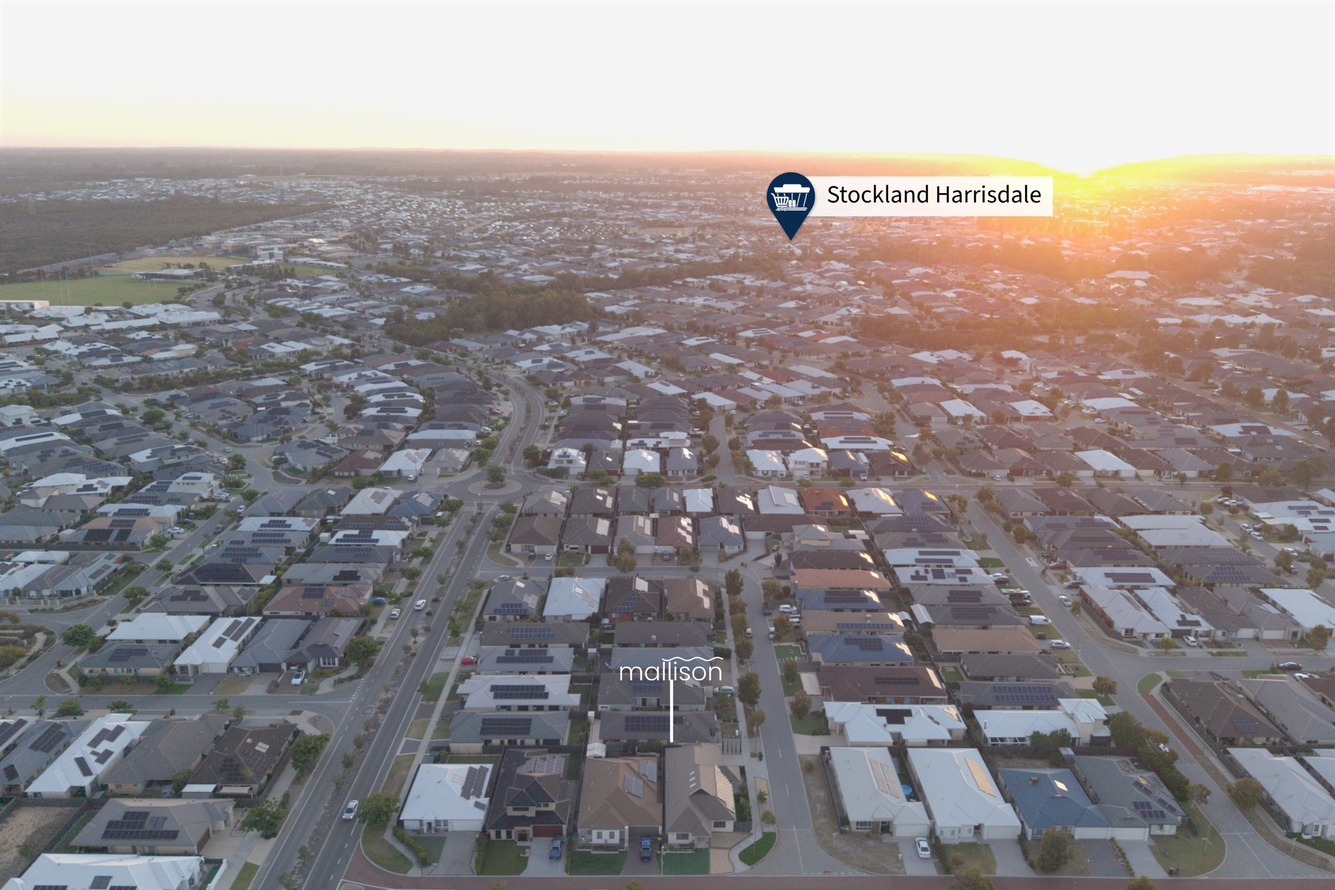
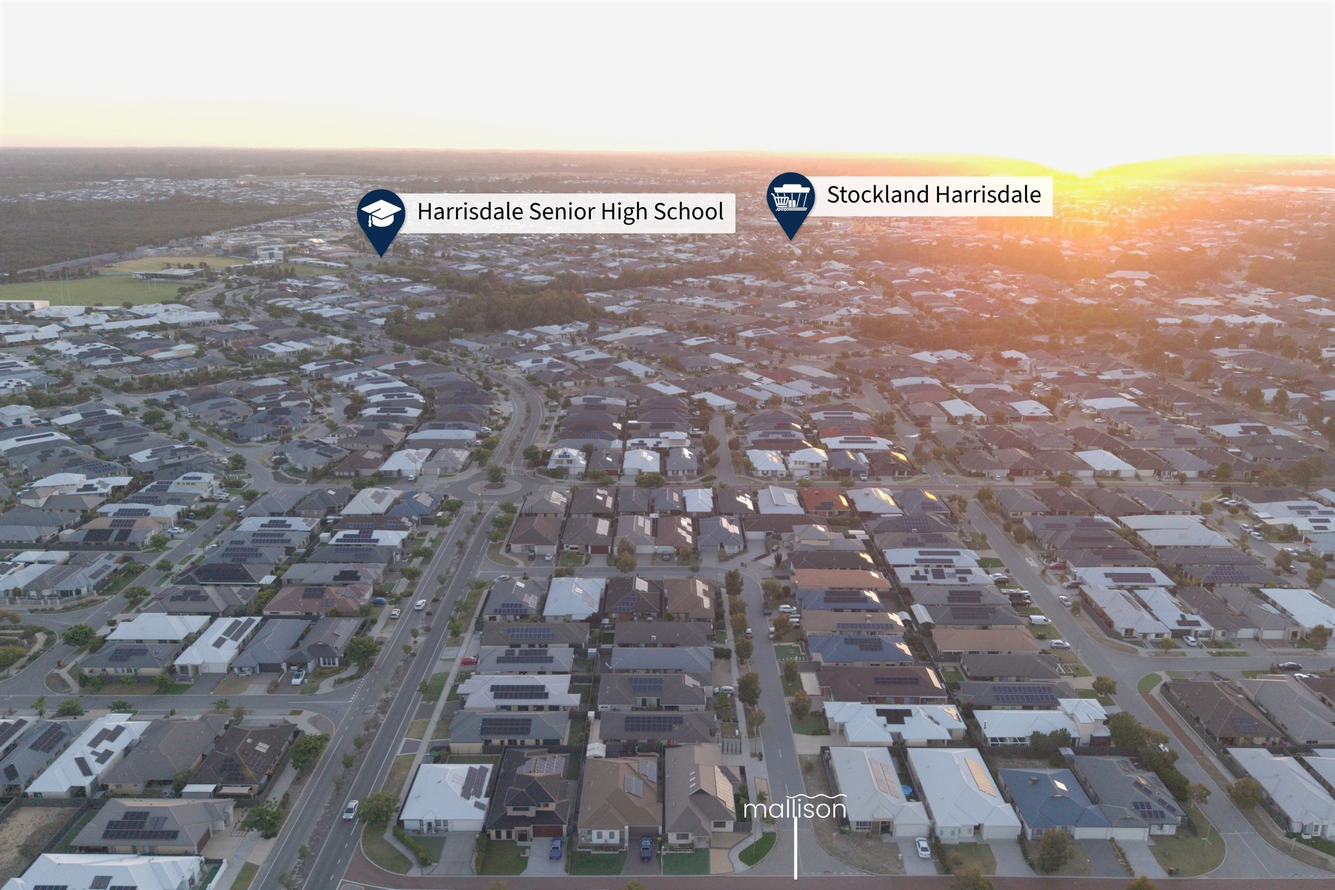
15 Glenora Wy: agent's 6 pins (N Harrisdale PS, Harrisdale SHS, Stockland Harrisdale, Carey, Cockburn Central, Armadale Hospital)
Claude-Session: https://claude.ai/code/session_01A5qGg2LnJXxgSHoMQFvEEG

Changed region(s): [[0.25, 0.2188, 0.5625, 0.2812], [0.5625, 0.875, 0.625, 0.9375], [0.4688, 0.7188, 0.5312, 0.7812]]

diff --git a/aerials/26-nov-2026/index.html b/aerials/26-nov-2026/index.html
@@ -5,4 +5,4 @@ body{margin:0;background:var(--bg);color:var(--fg);font:15px/1.45 system-ui,-app
 header,section{max-width:1400px;margin:auto;padding:18px 16px}h1{font-size:20px;margin:0}h2{font-size:17px;margin:0}header p,section p{color:var(--mut);margin:4px 0 0}
 .ed{margin-left:10px;color:var(--acc);font-weight:600;text-decoration:none}a{color:var(--acc)}
 .chk{margin-top:10px}.chk summary{cursor:pointer;color:var(--mut);font-weight:600}.chk iframe{width:100%;height:420px;border:0;border-radius:6px;margin-top:6px;background:#111}.g{display:grid;grid-template-columns:repeat(auto-fill,minmax(280px,1fr));gap:8px;margin-top:10px}.g img{width:100%;display:block;border-radius:4px}</style></head>
-<body><header><h1>Drone edits — Thu 26 Nov 2026</h1><p>Tap a photo for full size. <b>Edit</b> opens the job in the <a href="/pins/">editor</a> with all its pins and settings.</p></header><section><h2>SEND TO EDITOR — twilight drone (flown into the sunset) — 15 Glenora Wy, Harrisdale WA 6112</h2><p>Oshi Thilakarathna · Mallison Real Estate · 10 photos (top-downs first) <a class="ed" href="/pins/?open=26-nov-2026/15_glenora_wy">Edit</a><a class="ed" href="/lots/?img=/aerials/26-nov-2026/15_glenora_wy/src/dji_fly_20261126_185842_0003_1795690967775_photo_r180.jpg&street=Glenora%20Way" target="_blank">Lots</a><a class="ed" href="15_glenora_wy/check.html" target="_blank">Check map</a></p><div class="g"><a href="15_glenora_wy/dji_fly_20261126_185842_0003_1795690967775_photo_r180.jpg?v=1795707427" target="_blank"><img loading="lazy" src="15_glenora_wy/t/dji_fly_20261126_185842_0003_1795690967775_photo_r180.jpg?v=1795707427" alt=""></a><a href="15_glenora_wy/dji_fly_20261126_185848_0004_1795690966839_photo.jpg?v=1795707427" target="_blank"><img loading="lazy" src="15_glenora_wy/t/dji_fly_20261126_185848_0004_1795690966839_photo.jpg?v=1795707427" alt=""></a><a href="15_glenora_wy/dji_fly_20261126_185938_0005_1795690965902_photo.jpg?v=1795707427" target="_blank"><img loading="lazy" src="15_glenora_wy/t/dji_fly_20261126_185938_0005_1795690965902_photo.jpg?v=1795707427" alt=""></a><a href="15_glenora_wy/dji_fly_20261126_185956_0006_1795690965016_photo.jpg?v=1795707427" target="_blank"><img loading="lazy" src="15_glenora_wy/t/dji_fly_20261126_185956_0006_1795690965016_photo.jpg?v=1795707427" alt=""></a><a href="15_glenora_wy/dji_fly_20261126_190016_0007_1795690964095_photo.jpg?v=1795707427" target="_blank"><img loading="lazy" src="15_glenora_wy/t/dji_fly_20261126_190016_0007_1795690964095_photo.jpg?v=1795707427" alt=""></a><a href="15_glenora_wy/dji_fly_20261126_190044_0008_1795690963147_photo.jpg?v=1795707427" target="_blank"><img loading="lazy" src="15_glenora_wy/t/dji_fly_20261126_190044_0008_1795690963147_photo.jpg?v=1795707427" alt=""></a><a href="15_glenora_wy/dji_fly_20261126_190128_0009_1795690961909_photo.jpg?v=1795707427" target="_blank"><img loading="lazy" src="15_glenora_wy/t/dji_fly_20261126_190128_0009_1795690961909_photo.jpg?v=1795707427" alt=""></a><a href="15_glenora_wy/dji_fly_20261126_190206_0010_1795690961013_photo.jpg?v=1795707427" target="_blank"><img loading="lazy" src="15_glenora_wy/t/dji_fly_20261126_190206_0010_1795690961013_photo.jpg?v=1795707427" alt=""></a><a href="15_glenora_wy/dji_fly_20261126_190244_0011_1795690960294_photo.jpg?v=1795707427" target="_blank"><img loading="lazy" src="15_glenora_wy/t/dji_fly_20261126_190244_0011_1795690960294_photo.jpg?v=1795707427" alt=""></a><a href="15_glenora_wy/dji_fly_20261126_190318_0012_1795690959317_photo.jpg?v=1795707427" target="_blank"><img loading="lazy" src="15_glenora_wy/t/dji_fly_20261126_190318_0012_1795690959317_photo.jpg?v=1795707427" alt=""></a></div><details class="chk" open><summary>Quick check — boundary + 13 pinned places</summary><iframe loading="lazy" src="15_glenora_wy/check.html?v=1795707429" title="Boundary and places check"></iframe></details></section><section><h2>SEND TO EDITOR — sun-facing frames hazy, pose estimated (check house pins) — 318 Wanneroo Rd, Nollamara WA 6061</h2><p>Dante Holdsworth · Holdsworth · 9 photos (top-downs first) <a class="ed" href="/pins/?open=26-nov-2026/318_wanneroo_rd">Edit</a><a class="ed" href="/lots/?img=/aerials/26-nov-2026/318_wanneroo_rd/src/dji_fly_20261126_171430_0284_1795684738475_photo_r270.JPG&street=Wanneroo%20Road" target="_blank">Lots</a><a class="ed" href="318_wanneroo_rd/check.html" target="_blank">Check map</a></p><div class="g"><a href="318_wanneroo_rd/dji_fly_20261126_171430_0284_1795684738475_photo_r270.jpg?v=1795707858" target="_blank"><img loading="lazy" src="318_wanneroo_rd/t/dji_fly_20261126_171430_0284_1795684738475_photo_r270.jpg?v=1795707858" alt=""></a><a href="318_wanneroo_rd/dji_fly_20261126_171422_0283_1795684739899_photo_sq.jpg?v=1795707858" target="_blank"><img loading="lazy" src="318_wanneroo_rd/t/dji_fly_20261126_171422_0283_1795684739899_photo_sq.jpg?v=1795707858" alt=""></a><a href="318_wanneroo_rd/dji_fly_20261126_171508_0285_1795684737043_photo.jpg?v=1795707858" target="_blank"><img loading="lazy" src="318_wanneroo_rd/t/dji_fly_20261126_171508_0285_1795684737043_photo.jpg?v=1795707858" alt=""></a><a href="318_wanneroo_rd/dji_fly_20261126_171552_0287_1795684734244_photo.jpg?v=1795707858" target="_blank"><img loading="lazy" src="318_wanneroo_rd/t/dji_fly_20261126_171552_0287_1795684734244_photo.jpg?v=1795707858" alt=""></a><a href="318_wanneroo_rd/dji_fly_20261126_171606_0288_1795684732811_photo.jpg?v=1795707858" target="_blank"><img loading="lazy" src="318_wanneroo_rd/t/dji_fly_20261126_171606_0288_1795684732811_photo.jpg?v=1795707858" alt=""></a><a href="318_wanneroo_rd/dji_fly_20261126_171620_0289_1795684731335_photo.jpg?v=1795707858" target="_blank"><img loading="lazy" src="318_wanneroo_rd/t/dji_fly_20261126_171620_0289_1795684731335_photo.jpg?v=1795707858" alt=""></a><a href="318_wanneroo_rd/dji_fly_20261126_171630_0290_1795684728940_photo.jpg?v=1795707858" target="_blank"><img loading="lazy" src="318_wanneroo_rd/t/dji_fly_20261126_171630_0290_1795684728940_photo.jpg?v=1795707858" alt=""></a><a href="318_wanneroo_rd/dji_fly_20261126_171700_0291_1795684727569_photo.jpg?v=1795707858" target="_blank"><img loading="lazy" src="318_wanneroo_rd/t/dji_fly_20261126_171700_0291_1795684727569_photo.jpg?v=1795707858" alt=""></a><a href="318_wanneroo_rd/dji_fly_20261126_171728_0292_1795684726302_photo.jpg?v=1795707858" target="_blank"><img loading="lazy" src="318_wanneroo_rd/t/dji_fly_20261126_171728_0292_1795684726302_photo.jpg?v=1795707858" alt=""></a></div><details class="chk" open><summary>Quick check — boundary + 14 pinned places</summary><iframe loading="lazy" src="318_wanneroo_rd/check.html?v=1795707861" title="Boundary and places check"></iframe></details></section><script src="../dl.js"></script></body></html>
+<body><header><h1>Drone edits — Thu 26 Nov 2026</h1><p>Tap a photo for full size. <b>Edit</b> opens the job in the <a href="/pins/">editor</a> with all its pins and settings.</p></header><section><h2>SEND TO EDITOR — twilight drone (flown into the sunset) — 15 Glenora Wy, Harrisdale WA 6112</h2><p>Oshi Thilakarathna · Mallison Real Estate · 10 photos (top-downs first) <a class="ed" href="/pins/?open=26-nov-2026/15_glenora_wy">Edit</a><a class="ed" href="/lots/?img=/aerials/26-nov-2026/15_glenora_wy/src/dji_fly_20261126_185842_0003_1795690967775_photo_r180.jpg&street=Glenora%20Way" target="_blank">Lots</a><a class="ed" href="15_glenora_wy/check.html" target="_blank">Check map</a></p><div class="g"><a href="15_glenora_wy/dji_fly_20261126_185842_0003_1795690967775_photo_r180.jpg?v=1795750000" target="_blank"><img loading="lazy" src="15_glenora_wy/t/dji_fly_20261126_185842_0003_1795690967775_photo_r180.jpg?v=1795750000" alt=""></a><a href="15_glenora_wy/dji_fly_20261126_185848_0004_1795690966839_photo.jpg?v=1795750000" target="_blank"><img loading="lazy" src="15_glenora_wy/t/dji_fly_20261126_185848_0004_1795690966839_photo.jpg?v=1795750000" alt=""></a><a href="15_glenora_wy/dji_fly_20261126_185938_0005_1795690965902_photo.jpg?v=1795750000" target="_blank"><img loading="lazy" src="15_glenora_wy/t/dji_fly_20261126_185938_0005_1795690965902_photo.jpg?v=1795750000" alt=""></a><a href="15_glenora_wy/dji_fly_20261126_185956_0006_1795690965016_photo.jpg?v=1795750000" target="_blank"><img loading="lazy" src="15_glenora_wy/t/dji_fly_20261126_185956_0006_1795690965016_photo.jpg?v=1795750000" alt=""></a><a href="15_glenora_wy/dji_fly_20261126_190016_0007_1795690964095_photo.jpg?v=1795750000" target="_blank"><img loading="lazy" src="15_glenora_wy/t/dji_fly_20261126_190016_0007_1795690964095_photo.jpg?v=1795750000" alt=""></a><a href="15_glenora_wy/dji_fly_20261126_190044_0008_1795690963147_photo.jpg?v=1795750000" target="_blank"><img loading="lazy" src="15_glenora_wy/t/dji_fly_20261126_190044_0008_1795690963147_photo.jpg?v=1795750000" alt=""></a><a href="15_glenora_wy/dji_fly_20261126_190128_0009_1795690961909_photo.jpg?v=1795750000" target="_blank"><img loading="lazy" src="15_glenora_wy/t/dji_fly_20261126_190128_0009_1795690961909_photo.jpg?v=1795750000" alt=""></a><a href="15_glenora_wy/dji_fly_20261126_190206_0010_1795690961013_photo.jpg?v=1795750000" target="_blank"><img loading="lazy" src="15_glenora_wy/t/dji_fly_20261126_190206_0010_1795690961013_photo.jpg?v=1795750000" alt=""></a><a href="15_glenora_wy/dji_fly_20261126_190244_0011_1795690960294_photo.jpg?v=1795750000" target="_blank"><img loading="lazy" src="15_glenora_wy/t/dji_fly_20261126_190244_0011_1795690960294_photo.jpg?v=1795750000" alt=""></a><a href="15_glenora_wy/dji_fly_20261126_190318_0012_1795690959317_photo.jpg?v=1795750000" target="_blank"><img loading="lazy" src="15_glenora_wy/t/dji_fly_20261126_190318_0012_1795690959317_photo.jpg?v=1795750000" alt=""></a></div><details class="chk" open><summary>Quick check — boundary + 13 pinned places</summary><iframe loading="lazy" src="15_glenora_wy/check.html?v=1795707429" title="Boundary and places check"></iframe></details></section><section><h2>SEND TO EDITOR — sun-facing frames hazy, pose estimated (check house pins) — 318 Wanneroo Rd, Nollamara WA 6061</h2><p>Dante Holdsworth · Holdsworth · 9 photos (top-downs first) <a class="ed" href="/pins/?open=26-nov-2026/318_wanneroo_rd">Edit</a><a class="ed" href="/lots/?img=/aerials/26-nov-2026/318_wanneroo_rd/src/dji_fly_20261126_171430_0284_1795684738475_photo_r270.JPG&street=Wanneroo%20Road" target="_blank">Lots</a><a class="ed" href="318_wanneroo_rd/check.html" target="_blank">Check map</a></p><div class="g"><a href="318_wanneroo_rd/dji_fly_20261126_171430_0284_1795684738475_photo_r270.jpg?v=1795707858" target="_blank"><img loading="lazy" src="318_wanneroo_rd/t/dji_fly_20261126_171430_0284_1795684738475_photo_r270.jpg?v=1795707858" alt=""></a><a href="318_wanneroo_rd/dji_fly_20261126_171422_0283_1795684739899_photo_sq.jpg?v=1795707858" target="_blank"><img loading="lazy" src="318_wanneroo_rd/t/dji_fly_20261126_171422_0283_1795684739899_photo_sq.jpg?v=1795707858" alt=""></a><a href="318_wanneroo_rd/dji_fly_20261126_171508_0285_1795684737043_photo.jpg?v=1795707858" target="_blank"><img loading="lazy" src="318_wanneroo_rd/t/dji_fly_20261126_171508_0285_1795684737043_photo.jpg?v=1795707858" alt=""></a><a href="318_wanneroo_rd/dji_fly_20261126_171552_0287_1795684734244_photo.jpg?v=1795707858" target="_blank"><img loading="lazy" src="318_wanneroo_rd/t/dji_fly_20261126_171552_0287_1795684734244_photo.jpg?v=1795707858" alt=""></a><a href="318_wanneroo_rd/dji_fly_20261126_171606_0288_1795684732811_photo.jpg?v=1795707858" target="_blank"><img loading="lazy" src="318_wanneroo_rd/t/dji_fly_20261126_171606_0288_1795684732811_photo.jpg?v=1795707858" alt=""></a><a href="318_wanneroo_rd/dji_fly_20261126_171620_0289_1795684731335_photo.jpg?v=1795707858" target="_blank"><img loading="lazy" src="318_wanneroo_rd/t/dji_fly_20261126_171620_0289_1795684731335_photo.jpg?v=1795707858" alt=""></a><a href="318_wanneroo_rd/dji_fly_20261126_171630_0290_1795684728940_photo.jpg?v=1795707858" target="_blank"><img loading="lazy" src="318_wanneroo_rd/t/dji_fly_20261126_171630_0290_1795684728940_photo.jpg?v=1795707858" alt=""></a><a href="318_wanneroo_rd/dji_fly_20261126_171700_0291_1795684727569_photo.jpg?v=1795707858" target="_blank"><img loading="lazy" src="318_wanneroo_rd/t/dji_fly_20261126_171700_0291_1795684727569_photo.jpg?v=1795707858" alt=""></a><a href="318_wanneroo_rd/dji_fly_20261126_171728_0292_1795684726302_photo.jpg?v=1795707858" target="_blank"><img loading="lazy" src="318_wanneroo_rd/t/dji_fly_20261126_171728_0292_1795684726302_photo.jpg?v=1795707858" alt=""></a></div><details class="chk" open><summary>Quick check — boundary + 14 pinned places</summary><iframe loading="lazy" src="318_wanneroo_rd/check.html?v=1795707861" title="Boundary and places check"></iframe></details></section><script src="../dl.js"></script></body></html>
